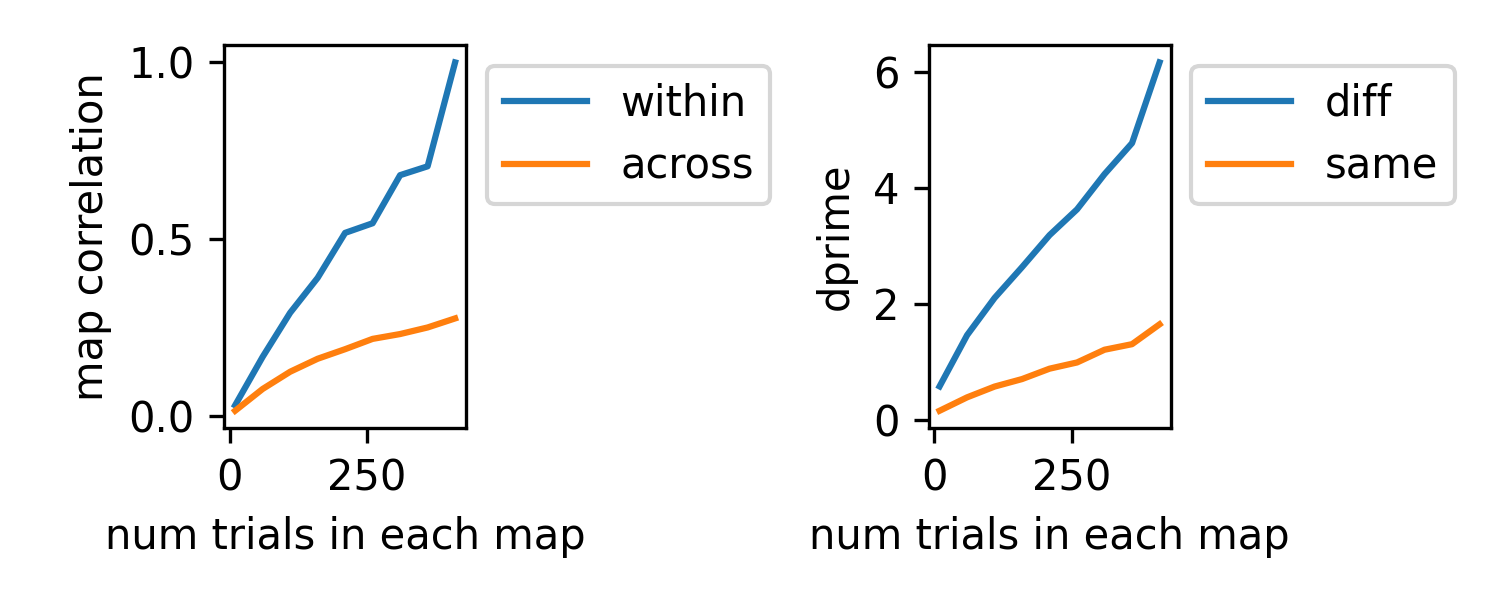
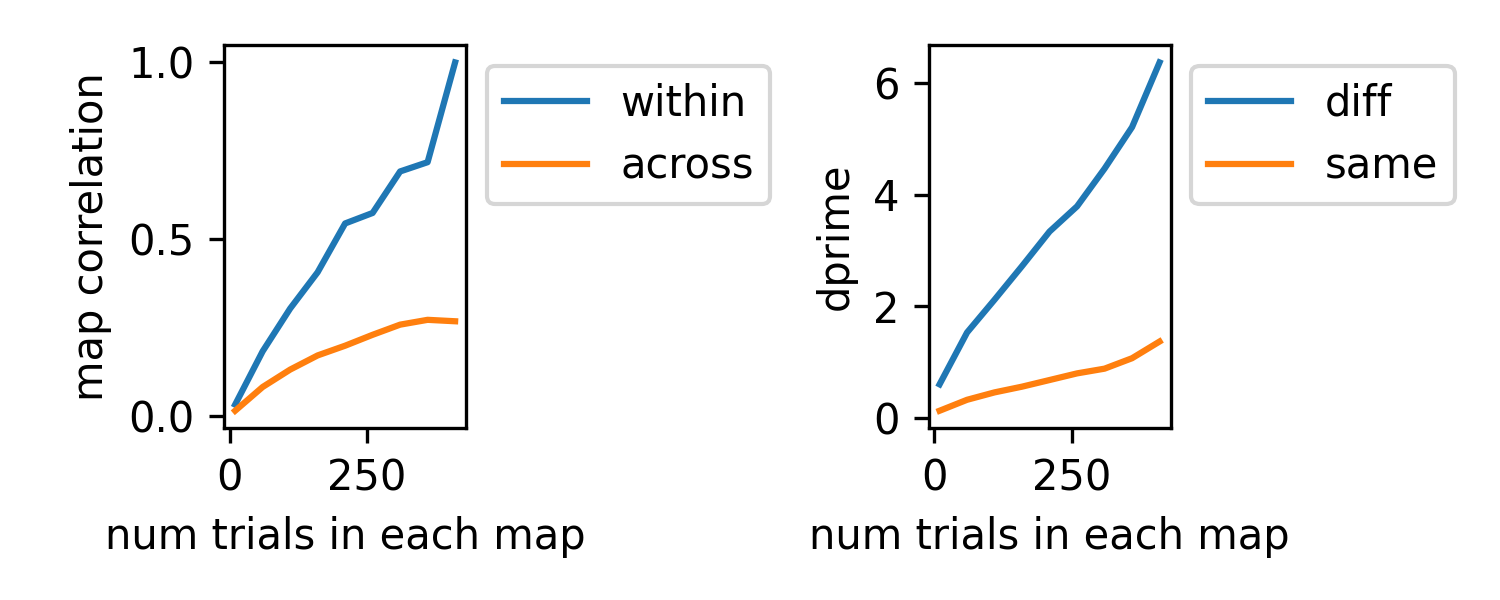
allow different statistics

diff --git a/aopy/analysis/base.py b/aopy/analysis/base.py
@@ -2498,7 +2498,9 @@ def calc_trial_bootstraps(data, n_trials=300, n_bootstraps=30,
     elif type(parallel) is mp.pool.Pool: # use an existing pool
         pool = parallel
     
-    if pool:
+    if n_bootstraps == 1:
+        results = [calc_statistic_random_trials(*args_list[0])]
+    elif pool:
         results = list(tqdm(pool.imap(_calc_statistic_random_trials, args_list), 
                             total=n_bootstraps, desc="Bootstraps"))
         if parallel is True:
@@ -2512,7 +2514,7 @@ def calc_trial_bootstraps(data, n_trials=300, n_bootstraps=30,
 
 def compare_conditions_bootstrap_spatial_corr_no_shuffle(
         data, elec_pos, labels, n_trials=300, n_bootstraps=30, 
-        statistic=partial(np.mean, axis=0), parallel=False):
+        statistics=partial(np.mean, axis=0), parallel=False):
     '''
     Compare multiple conditions using bootstrapping. Two comparisons are made:
         1. The spatial correlation of the distributions of the statistic across conditions.
@@ -2525,7 +2527,7 @@ def compare_conditions_bootstrap_spatial_corr_no_shuffle(
         labels (ntrials,): labels for each trial, used to group trials by condition
         n_trials (int): number of trials to use in each bootstrap
         n_bootstraps (int): number of bootstrap trials to perform
-        statistic (function): function to calculate the statistic on the data. 
+        statistics (function or list of functions): function(s) to calculate the statistic on the data. If more than one is supplied, they will be applied per condition 
 
     Returns:
         tuple: tuple containing:
@@ -2537,9 +2539,11 @@ def compare_conditions_bootstrap_spatial_corr_no_shuffle(
     conditions = np.unique(labels)
     if len(conditions) < 2:
         raise ValueError("At least two conditions are required for comparison")
-    
+    if callable(statistics):
+        statistics=[statistics] * len(conditions)
+
     cond_dists = []
-    for cond in conditions:
+    for idx, cond in enumerate(conditions):
         try:
             data_cond = data[labels == cond]
         except KeyError:
@@ -2549,7 +2553,7 @@ def compare_conditions_bootstrap_spatial_corr_no_shuffle(
             raise ValueError(f"Condition {cond} has less than {n_trials} trials")
 
         dist = calc_trial_bootstraps(data_cond, n_trials=n_trials, n_bootstraps=n_bootstraps,
-                                     statistic=statistic, parallel=parallel)
+                                     statistic=statistics[idx], parallel=parallel)
         
         cond_dists.append(dist)
 
@@ -2568,7 +2572,7 @@ def compare_conditions_bootstrap_spatial_corr_no_shuffle(
 
 def compare_conditions_bootstrap_spatial_corr(
         data, elec_pos, labels, n_trials=300, n_bootstraps=30, n_shuffle=0, 
-        statistic=partial(np.mean, axis=0), parallel=False):
+        statistics=partial(np.mean, axis=0), parallel=False):
     '''
     Compare multiple conditions using bootstrapping and shuffling. 
 
@@ -2579,11 +2583,10 @@ def compare_conditions_bootstrap_spatial_corr(
         n_trials (int): number of trials to use in each bootstrap
         n_bootstraps (int): number of bootstrap trials to perform
         n_shuffle (int): number of times to shuffle the labels to create a null distribution
-        statistic (function): function to calculate the statistic on the data.
+        statistics (function or list of functions): function(s) to calculate the statistic on the data. If more than one is supplied, they will be applied per condition 
 
     Returns:
         tuple: tuple containing:
-            | **means (nch):** mean of the statistic across conditions
             | **observed_dists (n_cond, n_bootstraps, len(data)//n_trials, nch):** bootstraps distributions for each condition
             | **conditions (n_cond):** unique conditions in the labels
             | **observed_corr (n_bootstraps, n_cond*n_cond, n_cond*n_cond, nch):** list of spatial correlation matrices for each bootstrap
@@ -2601,23 +2604,16 @@ def compare_conditions_bootstrap_spatial_corr(
         parallel = mp.Pool(mp.cpu_count() // 2)  # use half of the available cores
     if n_shuffle > 0:
         shuff_pbar = tqdm(total=n_shuffle, desc="Shuffles")
-
-    # Calculate means using the minimum number of trials across conditions
-    min_n_trials = min([np.sum(labels == cond) for cond in conditions])
-    means, _, _, _ = compare_conditions_bootstrap_spatial_corr_no_shuffle(
-        data, elec_pos, labels, n_trials=min_n_trials, n_bootstraps=1, 
-        statistic=statistic, parallel=parallel
-    )
-
+        
     # Calculate observed distributions
     observed_dists, _, observed_corr, observed_dprime = \
         compare_conditions_bootstrap_spatial_corr_no_shuffle(
             data, elec_pos, labels, n_trials=n_trials, n_bootstraps=n_bootstraps, 
-            statistic=statistic, parallel=parallel
+            statistics=statistics, parallel=parallel
         )
     
     if n_shuffle == 0:
-        return np.squeeze(means), observed_dists, conditions, observed_corr, observed_dprime
+        return observed_dists, conditions, observed_corr, observed_dprime
 
     # Calculate shuffled distributions
     shuff_labels = labels.copy()
@@ -2629,12 +2625,12 @@ def compare_conditions_bootstrap_spatial_corr(
         shuff_dists, _, shuff_corr, shuff_dprime = \
             compare_conditions_bootstrap_spatial_corr_no_shuffle(
                 data, elec_pos, shuff_labels, n_trials=n_trials, n_bootstraps=n_bootstraps, 
-                statistic=statistic, parallel=parallel
+                statistics=statistics, parallel=parallel
             )
         shuff_dists_dist.append(shuff_dists)
         shuff_corr_dist.append(shuff_corr)
         shuff_dprime_dist.append(shuff_dprime)
         shuff_pbar.update()
         
-    return np.squeeze(means), observed_dists, conditions, observed_corr, observed_dprime, \
+    return observed_dists, conditions, observed_corr, observed_dprime, \
         shuff_dists_dist, shuff_corr_dist, shuff_dprime_dist

diff --git a/tests/test_analysis.py b/tests/test_analysis.py
@@ -2495,7 +2495,7 @@ class BootstrapTests(unittest.TestCase):
         n_elec = len(elec_pos)
         total_trials = 1600
         n_trials = 50
-        np.random.seed()
+        np.random.seed(0)
         data = 0.5*np.ones((total_trials,n_elec))
         data += np.random.normal(0.5, size=(total_trials,n_elec))
         data[:,n_elec//4:n_elec//2] += 0.1
@@ -2547,7 +2547,7 @@ class BootstrapTests(unittest.TestCase):
         n_bootstraps = 50
 
         # Test null distribution
-        np.random.seed()
+        np.random.seed(0)
         data = 0.5*np.ones((total_trials,n_elec))
         data += np.random.normal(0.5, size=(total_trials,n_elec))
         data[:,n_elec//4:n_elec//2] += 0.1
@@ -2589,7 +2589,8 @@ class BootstrapTests(unittest.TestCase):
 
         fig = plt.figure(figsize=(8,6), dpi=300)
 
-        means, dists, conditions, corr_mat, dprime = \
+        means = [np.mean(data[labels == i,:], axis=0) for i in np.unique(labels)]
+        dists, conditions, corr_mat, dprime = \
             aopy.analysis.compare_conditions_bootstrap_spatial_corr(
                 data, elec_pos, labels, n_trials=n_trials, n_bootstraps=n_bootstraps, parallel=False
             )
@@ -2599,7 +2600,8 @@ class BootstrapTests(unittest.TestCase):
         # Test difference
         data[labels == 1,:n_elec//8] += 0.2
 
-        means, dists, conditions, corr_mat, dprime, shuff_dists, shuff_mat, shuff_dprime = \
+        means = [np.mean(data[labels == i,:], axis=0) for i in np.unique(labels)]
+        dists, conditions, corr_mat, dprime, shuff_dists, shuff_mat, shuff_dprime = \
             aopy.analysis.compare_conditions_bootstrap_spatial_corr(
                 data, elec_pos, labels, n_trials=n_trials, n_bootstraps=n_bootstraps, n_shuffle=1, parallel=False
             )
@@ -2615,12 +2617,12 @@ class BootstrapTests(unittest.TestCase):
         savefig(docs_dir, filename, transparent=False)
 
         # Test with parallel processing
-        parallel_means, dists, conditions, corr_mat, dprime = \
+        dists, conditions, _, parallel_dprime = \
             aopy.analysis.compare_conditions_bootstrap_spatial_corr(
                 data, elec_pos, labels, n_trials=n_trials, n_bootstraps=n_bootstraps, parallel=True
             )
-
-        np.testing.assert_array_almost_equal(means[0], parallel_means[0])
+        # Note: random seed doesn't propagate to parallel processes, but the d-prime values are fairly stable anyway
+        np.testing.assert_array_almost_equal(dprime, parallel_dprime, decimal=0) 
 
         # Sweep the wrapper over increasing trials
         n_bootstraps = 10
@@ -2630,7 +2632,7 @@ class BootstrapTests(unittest.TestCase):
         avg_dprime_2 = []
         trial_sizes = range(10, 450, 50)
         for n_trials in trial_sizes:
-            means, dists, conditions, corr_mat, dprime = \
+            dists, conditions, corr_mat, dprime = \
                 aopy.analysis.compare_conditions_bootstrap_spatial_corr(
                     data, elec_pos, labels, n_trials=n_trials, n_bootstraps=n_bootstraps, parallel=False
                 )
